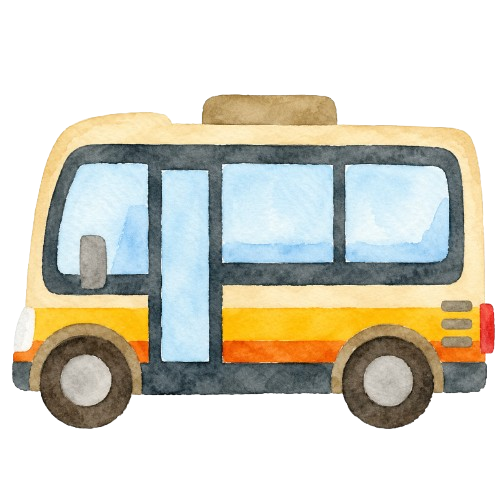
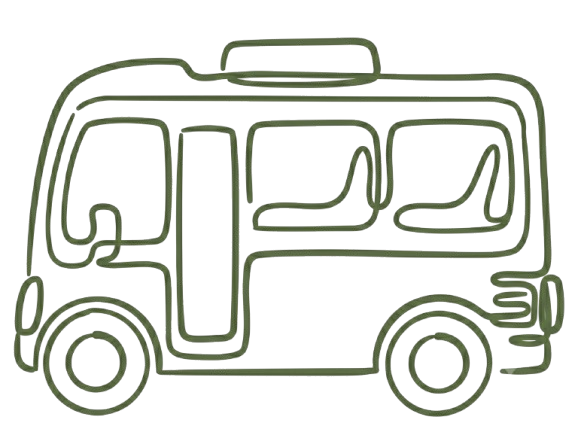
actualizacion

diff --git a/index.html b/index.html
@@ -10,10 +10,10 @@
     <script src="https://cdn.jsdelivr.net/npm/canvas-confetti@1.9.3/dist/confetti.browser.min.js"></script>
 </head>
 <body class="body">
-    <!-- <video muted playsinline webkit-playsinline poster="img/frame.png" id="video">
+    <video muted playsinline webkit-playsinline poster="img/frame.png" id="video">
         <source src="video/inicio.mp4" type="video/mp4">
-    </video> -->
-    <section id="inicio">
+    </video>
+    <section id="inicio" style="display: none;">
         <div class="inicio">
             <div class="text-subheader" style="display: flex; justify-content: space-between; margin-bottom: 3rem;">
                 <div>MADRID - 2026</div>
@@ -32,7 +32,7 @@
             <div class="text-header" style="text-align: center;">10.10.2026</div>
         </div>
     </section>
-    <section id="nosotros">
+    <section id="nosotros" style="display: none;">
         <div class="inicio">
             <div class="text-subheader" style="display: flex; align-items: center; border-top: 1px solid var(--color-yellow); margin: 1rem 0; padding-top: 2rem;"><span class="lineh"></span>SOBRE NOSOTROS</div>
             <div class="text-header" style="margin-bottom: 1rem;">
@@ -52,7 +52,7 @@
             </div>
         </div>
     </section>
-    <section id="cuenta">
+    <section id="cuenta" style="display: none;">
         <div class="inicio">
             <div class="text-subheader" style="display: flex; align-items: center; border-top: 1px solid var(--color-yellow); margin: 1rem 0; padding-top: 2rem;"><span class="lineh"></span>CUENTA REGRESIVA</div>
             <div style="display: grid; grid-template-columns: 25% 25% 25% 25%; margin-bottom: 1rem;">
@@ -70,7 +70,7 @@
             </div>
         </div>
     </section>
-    <section id="detalles">
+    <section id="detalles" style="display: none;">
         <div class="inicio">
             <div class="text-subheader" style="display: flex; align-items: center; border-top: 1px solid var(--color-yellow); margin: 1rem 0; padding-top: 2rem;"><span class="lineh"></span>DETALLES</div>
             <div class="text-header" style="margin-bottom: 1rem;">
@@ -111,7 +111,7 @@
             </div>
         </div>
     </section>
-    <section id="planificacion">
+    <section id="planificacion" style="display: none;">
         <div class="inicio">
             <div class="text-subheader" style="display: flex; align-items: center; border-top: 1px solid var(--color-yellow); margin: 1rem 0; padding-top: 2rem;"><span class="lineh"></span>PLANIFICACIÓN</div>
             <div class="text-header" style="margin-bottom: 1rem;">
@@ -139,7 +139,7 @@
                     <div class="circle">
                         <img
                             alt="bus"
-                            src="img/ceremony.svg"
+                            src="img/ceremonia.png"
                             style="width: 2rem;">
                     </div>
                     <div style="margin-left: 1rem;">
@@ -154,13 +154,13 @@
                     <div class="circle">
                         <img
                             alt="bus"
-                            src="img/cocktail.svg"
+                            src="img/coctel.png"
                             style="width: 2rem;">
                     </div>
                     <div style="margin-left: 1rem;">
                         <div style="display: flex;">
                             <div class="chip text-subheader" style="font-size: .7rem; color: white;">14:00H</div>
-                            <div class="text-subheader" style="font-weight: 400; font-size: .7rem; margin-left: .5rem;">COCKTAIL</div>
+                            <div class="text-subheader" style="font-weight: 400; font-size: .7rem; margin-left: .5rem;">CÓCTEL</div>
                         </div>
                         <div class="text-subtitle" style="margin-top: .2rem;">Aperitivos y bebidas en los jardines</div>
                     </div>
@@ -169,7 +169,7 @@
                     <div class="circle">
                         <img
                             alt="bus"
-                            src="img/dinner.svg"
+                            src="img/banquete.png"
                             style="width: 2rem;">
                     </div>
                     <div style="margin-left: 1rem;">
@@ -213,7 +213,7 @@
             </div>            
         </div>
     </section>
-    <section id="preguntas">
+    <section id="preguntas" style="display: none;">
         <div class="inicio">
             <div class="text-subheader" style="display: flex; align-items: center; border-top: 1px solid var(--color-yellow); margin: 1rem 0; padding-top: 2rem;"><span class="lineh"></span>DUDAS</div>
             <div class="text-header" style="margin-bottom: 1rem;">
@@ -323,7 +323,7 @@
             </div>
         </div>
     </section>
-    <section id="regalo">
+    <section id="regalo" style="display: none;">
         <div class="inicio">
             <div class="text-subheader" style="display: flex; align-items: center; border-top: 1px solid var(--color-yellow); margin: 1rem 0; padding-top: 2rem;"><span class="lineh"></span>APORTACIÓN</div>
             <div class="text-header" style="margin-bottom: 1rem;">
@@ -338,7 +338,7 @@
                 <div style="color: var(--color-green); text-decoration: underline; justify-self: end;" onclick="hiddeDatosBancarios()">OCULTAR</div>
         </div>
     </section>
-    <section id="rsvp">
+    <section id="rsvp" style="display: none;">
         <div class="inicio">
             <div class="text-subheader" style="display: flex; align-items: center; border-top: 1px solid var(--color-yellow); margin: 1rem 0; padding-top: 2rem;"><span class="lineh"></span>CONFIRMACIÓN</div>
             <div class="text-header" style="margin-bottom: 1rem;">
@@ -433,7 +433,7 @@
             </form>
         </div>
     </section>
-    <section id="fin">
+    <section id="fin" style="display: none;">
         <div class="fin">
             <div class="text-brush" style="text-align: center; font-size: 3rem; color: var(--color-green);">
                 <span>Tamara</span>
@@ -448,32 +448,34 @@
     </section>
     <script data-cfasync="false" src="js/form-submission-handler.js"></script>
     <script>
-        // const video = document.getElementById("video");
-        // const inicio = document.getElementById("inicio");
-        // const cuenta = document.getElementById("cuenta");
-        // const detalles = document.getElementById("detalles");
-        // const planificacion = document.getElementById("planificacion");
-        // const preguntas = document.getElementById("preguntas");
-        // const regalo = document.getElementById("regalo");
-        // const rsvp = document.getElementById("rsvp");
-        // const fin = document.getElementById("rsvp");
-        // video.addEventListener("click", () => {
-        //     video.play();
-        //     setTimeout(() => {
-        //         video.style.opacity = "0";
-        //         setTimeout(() => {
-        //             video.style.display = "none";
-        //             inicio.style.display = "inherit";
-        //             cuenta.style.display = "inherit";
-        //             detalles.style.display = "inherit";
-        //             planificacion.style.display = "inherit";
-        //             preguntas.style.display = "inherit";
-        //             regalo.style.display = "inherit";
-        //             rsvp.style.display = "inherit";
-        //             fin.style.display = "inherit";
-        //         }, 500);
-        //     }, 1500);
-        // });
+        const video = document.getElementById("video");
+        const inicio = document.getElementById("inicio");
+        const cuenta = document.getElementById("cuenta");
+        const nosotros = document.getElementById("nosotros");
+        const detalles = document.getElementById("detalles");
+        const planificacion = document.getElementById("planificacion");
+        const preguntas = document.getElementById("preguntas");
+        const regalo = document.getElementById("regalo");
+        const rsvp = document.getElementById("rsvp");
+        const fin = document.getElementById("fin");
+        video.addEventListener("click", () => {
+            video.play();
+            setTimeout(() => {
+                video.style.opacity = "0";
+                setTimeout(() => {
+                    video.style.display = "none";
+                    inicio.style.display = "inherit";
+                    cuenta.style.display = "inherit";
+                    nosotros.style.display = "inherit";
+                    detalles.style.display = "inherit";
+                    planificacion.style.display = "inherit";
+                    preguntas.style.display = "inherit";
+                    regalo.style.display = "inherit";
+                    rsvp.style.display = "inherit";
+                    fin.style.display = "inherit";
+                }, 500);
+            }, 1500);
+        });
 
         // CUENTA REGRESIVA
         const dias = document.getElementById("dias");
@@ -601,7 +603,6 @@
                 invitados.appendChild(div);
             }
         }
-
 
         // MOVIMIENTO
         const movimientos = document.querySelectorAll(".movimiento");

diff --git a/css/styles.min.css b/css/styles.min.css
@@ -97,7 +97,7 @@
 }
 
 .circle {
-  border: 2px solid var(--color-green-dark);
+  border: 1px solid var(--color-green-dark);
   border-radius: 50rem;
   padding: .5rem;
   width: fit-content;